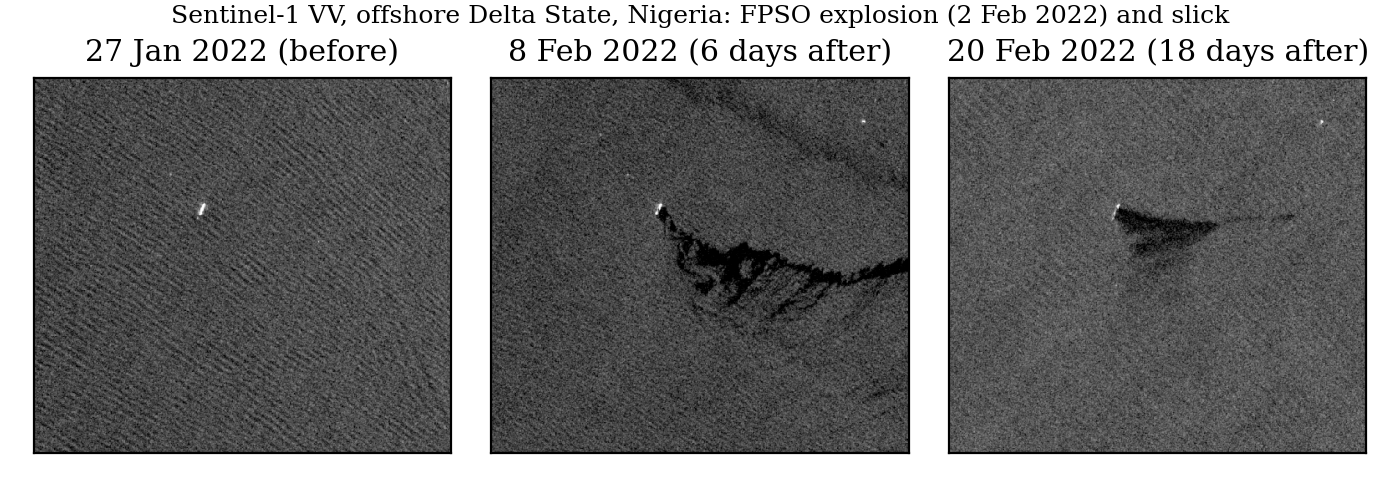
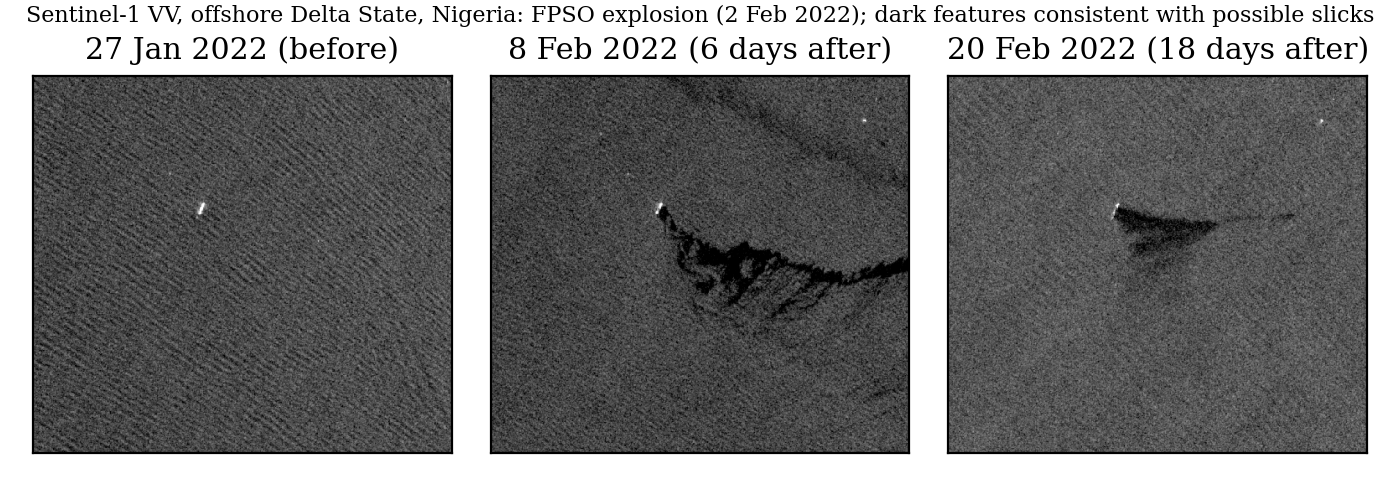
Clarify execution environment, demonstration requirements and wording

diff --git a/matlab/sar_params.m b/matlab/sar_params.m
@@ -23,7 +23,8 @@ p.targets = [   0      0   1.0;
               -150   -200   0.8;
                200    250   0.6;
                100   -350   0.5];
-% example requirement (weighted processing, alpha = 0.75) and verification tolerance
+% self-defined demonstration requirements (weighted processing, alpha = 0.75) and verification tolerance;
+% not an MDA, ESA or Sentinel-1 acceptance specification
 p.spec.irw_rg_m  = 5.5;    % slant-range resolution, -3 dB width (m)
 p.spec.irw_az_m  = 6.5;    % azimuth resolution, -3 dB width (m)
 p.spec.pslr_db   = -20.0;  % peak sidelobe ratio (dB), both directions

diff --git a/python/sarsim/__init__.py b/python/sarsim/__init__.py
@@ -1,6 +1,7 @@
 """Stripmap SAR point-target simulator, range-Doppler processor and verification tools.
 
-Python port of the MATLAB code in ../matlab (same parameters and algorithms).
+Separate Python implementation of the MATLAB code in ../matlab, used for numerical comparison.
+It shares the same parameters and model assumptions, so it is not an independent validation.
 """
 from .core import (params, simulate_raw, rda_focus, measure_irf, irf_model, nesz_model,
                    slick_scene, detect_dark)

diff --git a/matlab/run_all.m b/matlab/run_all.m
@@ -1,5 +1,5 @@
 %RUN_ALL  Simulate, focus, measure and verify against the requirement and the analytic model.
-%   Two processing cases: unweighted (alpha = 1.0) and Hamming-weighted (alpha = 0.75, operational).
+%   Two processing cases: unweighted (alpha = 1.0) and Hamming-weighted (alpha = 0.75, weighted reference case).
 %   Writes results/irf_metrics.csv, results/nesz.csv and results/verification.txt.
 p0 = sar_params();
 pf = {'FAIL', 'PASS'};

diff --git a/README.md b/README.md
@@ -2,23 +2,27 @@
 
 Emmanuel Chidi Ibekwe · M.Sc. Atmospheric Science, Texas A&M University · College Station, TX
 
-This repository shows end-to-end SAR processing work in **MATLAB** (runs in MATLAB or GNU Octave) with a
-matching **Python** implementation used as an independent cross-check:
+This repository shows end-to-end SAR processing work in **MATLAB-compatible code, executed and verified in
+GNU Octave** (it has not yet been run in MATLAB itself), with a **separate Python implementation for
+numerical comparison**. The Python version shares the same model assumptions, so agreement between the two
+checks the coding, not the physics.
 
 | Job requirement | Where it is in this repository |
 |---|---|
 | Develop algorithms to process SAR data | `matlab/rda_focus.m`: range-Doppler algorithm (replica range compression, azimuth FFT, RCMC with a Kaiser-windowed sinc interpolator, exact zero-squint azimuth compression, spectral weighting). `detect_dark.m`: adaptive-threshold oil-slick detector. |
 | Model and verify system performance to meet specifications | `irf_model.m` (analytic IRF from the processed spectra), `measure_irf.m` (IRW, PSLR, ISLR, location error), `nesz_model.m` (radar-equation NESZ), `run_all.m` (requirement checks). See `docs/VERIFICATION.md`. |
 | Develop and maintain simulators for testing and verification | `simulate_raw.m` (point-target raw-data simulator: LFM chirp, hyperbolic range history, two-way antenna pattern, noise). `slick_scene.m` (K-distributed sea clutter with an oil slick and a low-wind look-alike, with truth masks). Regression tests in `matlab/tests` and `python/tests`. |
-| Collaborate with ground and software teams | Same algorithms in two languages with agreeing results, scripted runs, CSV outputs, tests that run headless (CI-ready). |
+| Collaborate with ground and software teams | Same algorithms in two languages with agreeing numerical results, scripted runs, CSV outputs, tests that run headless (CI-ready). |
 
 ![raw and focused](docs/figures/fig1_raw_vs_focused.png)
 
 ## Results (C-band stripmap, Sentinel-1-like parameters)
 
-Operational case: Hamming weighting (alpha = 0.75), replica range filter. Four point targets.
+Weighted reference case: Hamming weighting (alpha = 0.75), replica range filter. Four point targets.
+The thresholds are **self-defined demonstration requirements**. They are not an MDA, ESA or Sentinel-1
+acceptance specification.
 
-| Metric | Requirement | Analytic model | Measured (4 targets, MATLAB/Octave) | Result |
+| Metric | Demonstration requirement | Analytic model | Measured (4 targets, MATLAB/Octave) | Result |
 |---|---|---|---|---|
 | Slant-range IRW | <= 5.5 m | 4.99 m | 5.03 to 5.04 m | PASS |
 | Azimuth IRW | <= 6.5 m | 6.21 m | 6.24 to 6.27 m | PASS |
@@ -29,7 +33,7 @@ Operational case: Hamming weighting (alpha = 0.75), replica range filter. Four p
 | NESZ, 20 to 46 deg incidence | <= -22 dB | -28.8 to -22.2 dB | (model) | PASS, 0.2 dB margin at far range |
 
 The unweighted case reproduces the sinc response (range PSLR -13.1 dB against -13.3 dB theory).
-The Python implementation gives the same IRW to within 0.01 m, and PSLR to within about 1 dB (different noise realisation).
+The separate Python implementation gives the same IRW to within 0.01 m, and PSLR to within about 1 dB (different noise realisation).
 
 ![IRF cuts](docs/figures/fig2_irf_cuts.png)
 
@@ -57,14 +61,15 @@ dark-spot detection is a first stage, followed by shape and context checks again
 ![Sentinel-1 case](docs/figures/fig5_sentinel1_case_study.png)
 
 Sentinel-1 GRD time series (Google Earth Engine) over an FPSO that exploded off Delta State, Nigeria,
-on 2 February 2022: the vessel is a bright point target before the event, and dark slicks trail from
-its position 6 and 18 days after. Fire detections (NASA FIRMS) confirm the event date. Other case
+on 2 February 2022: the vessel is a bright point target before the event, and dark features consistent
+with possible surface slicks trail from its position 6 and 18 days after. NASA FIRMS thermal detections
+corroborate fire activity on the event date; they cannot establish oil composition or source by themselves. Other case
 studies: the MV Wakashio spill (Mauritius, 2020) and onshore pipeline-spill monitoring in the Niger
 Delta (radar change detection, Sentinel-2 indices, VIIRS fire data).
 
 ## How to run
 
-MATLAB or Octave, from `matlab/`:
+MATLAB-compatible (verified in GNU Octave), from `matlab/`:
 
     run_all              % simulate, focus, measure, verify; writes results/
     run_slick            % slick detector sweep over contrast and looks
@@ -76,7 +81,7 @@ Python 3.10+, from `python/`:
     python run_all.py    # figures in docs/figures
     python -m pytest -q  # 5 tests
 
-Runtime: about 20 s (Octave) or 10 s (Python) on a laptop. Raw data 2048 x 1024 complex samples.
+Runtime: under a minute (Octave) or 10 s (Python) on a laptop. Raw data 2048 x 1024 complex samples.
 
 ## Simplifications (stated so the results are read correctly)
 Straight-line geometry with an effective velocity, zero squint, no Earth curvature or Doppler

diff --git a/docs/VERIFICATION.md b/docs/VERIFICATION.md
@@ -1,11 +1,13 @@
 # Verification record
 
-Run: `matlab/run_all.m` in GNU Octave (same code runs in MATLAB). Full output: `octave_verification.txt`.
+Run: `matlab/run_all.m` in GNU Octave. The code is written to be MATLAB-compatible but has not yet been run
+in MATLAB. Full output: `octave_verification.txt`. A separate Python implementation (`python/`) is used for
+numerical comparison; it shares the model assumptions, so it is not an independent validation.
 
 ## Method
 1. Simulate raw echoes for four point targets (input SNR 0 dB per sample).
 2. Focus with the range-Doppler algorithm, three cases: unweighted with replica range filter; Hamming
-   (alpha 0.75) with the analytic POSP filter; Hamming with the replica filter (operational).
+   (alpha 0.75) with the analytic POSP filter; Hamming with the replica filter (weighted reference case).
 3. For each target, upsample a 32 x 32 patch by 16 and measure -3 dB width (IRW), peak sidelobe ratio
    (PSLR), integrated sidelobe ratio (ISLR, sidelobes outside the first nulls) and peak location error.
 4. Compute the analytic IRF from the processed spectra (range: rectangle x Hamming; azimuth: two-way
@@ -13,7 +15,9 @@ Run: `matlab/run_all.m` in GNU Octave (same code runs in MATLAB). Full output: `
 5. Check each metric against the requirement table in `sar_params.m`, and the measured IRW against the
    model within 3 percent. Compute NESZ across the swath from the radar equation.
 
-## Requirement table (example, weighted processing)
+## Requirement table (self-defined demonstration requirements, weighted processing)
+
+These thresholds were set for this exercise. They are not an MDA, ESA or Sentinel-1 acceptance specification.
 
 | Parameter | Requirement |
 |---|---|
